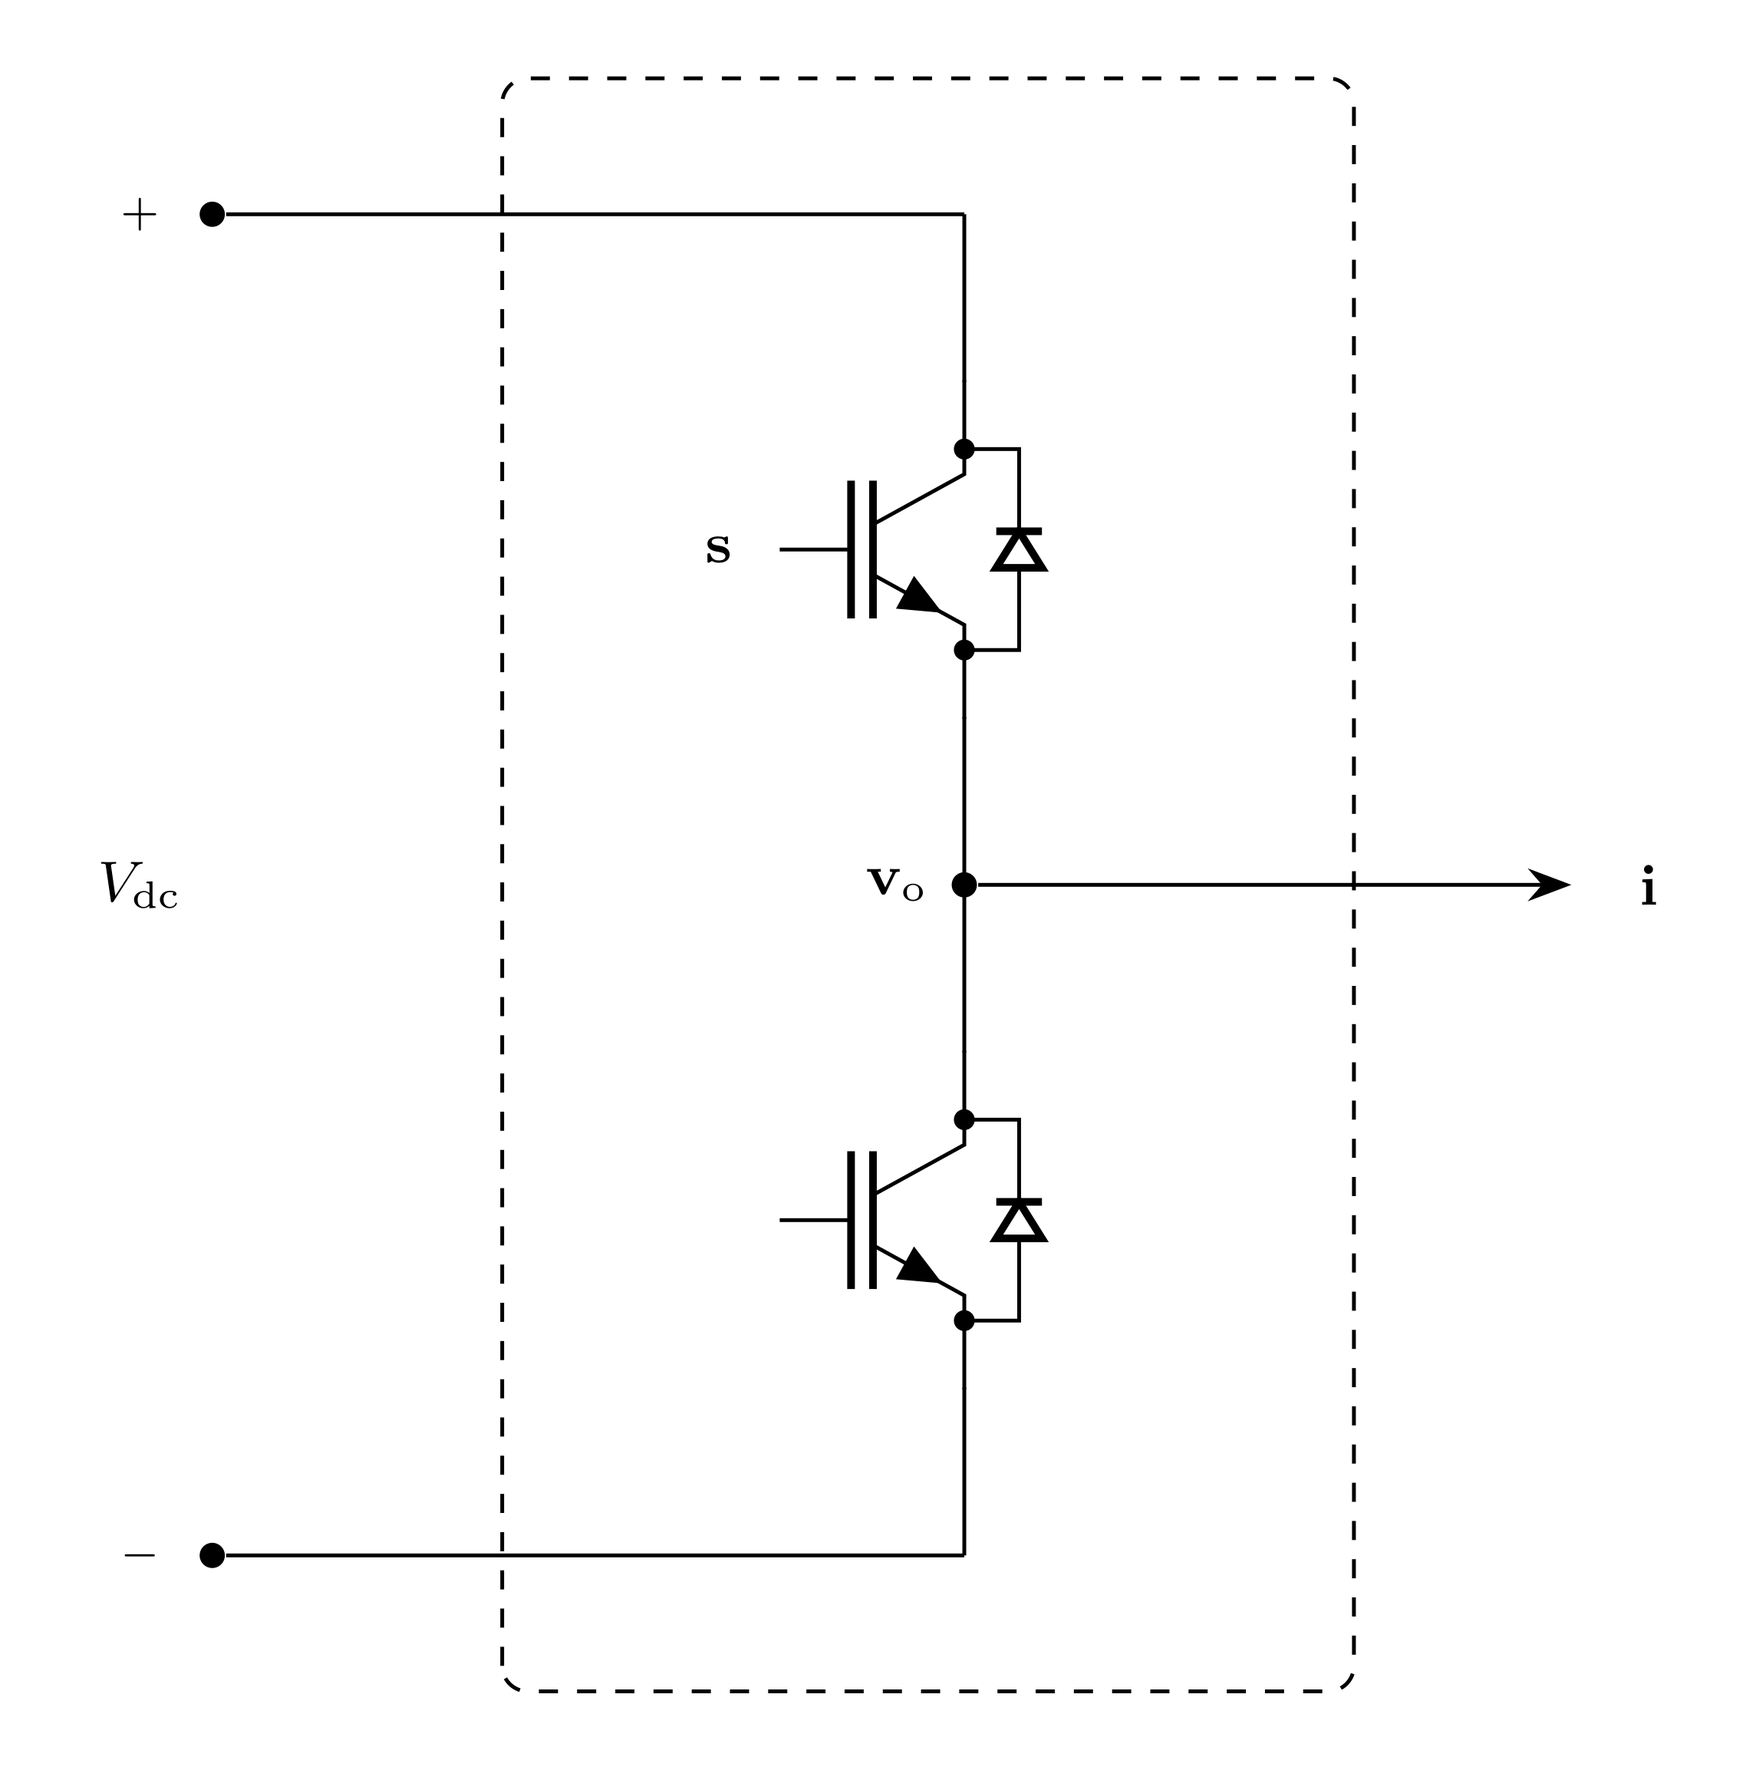
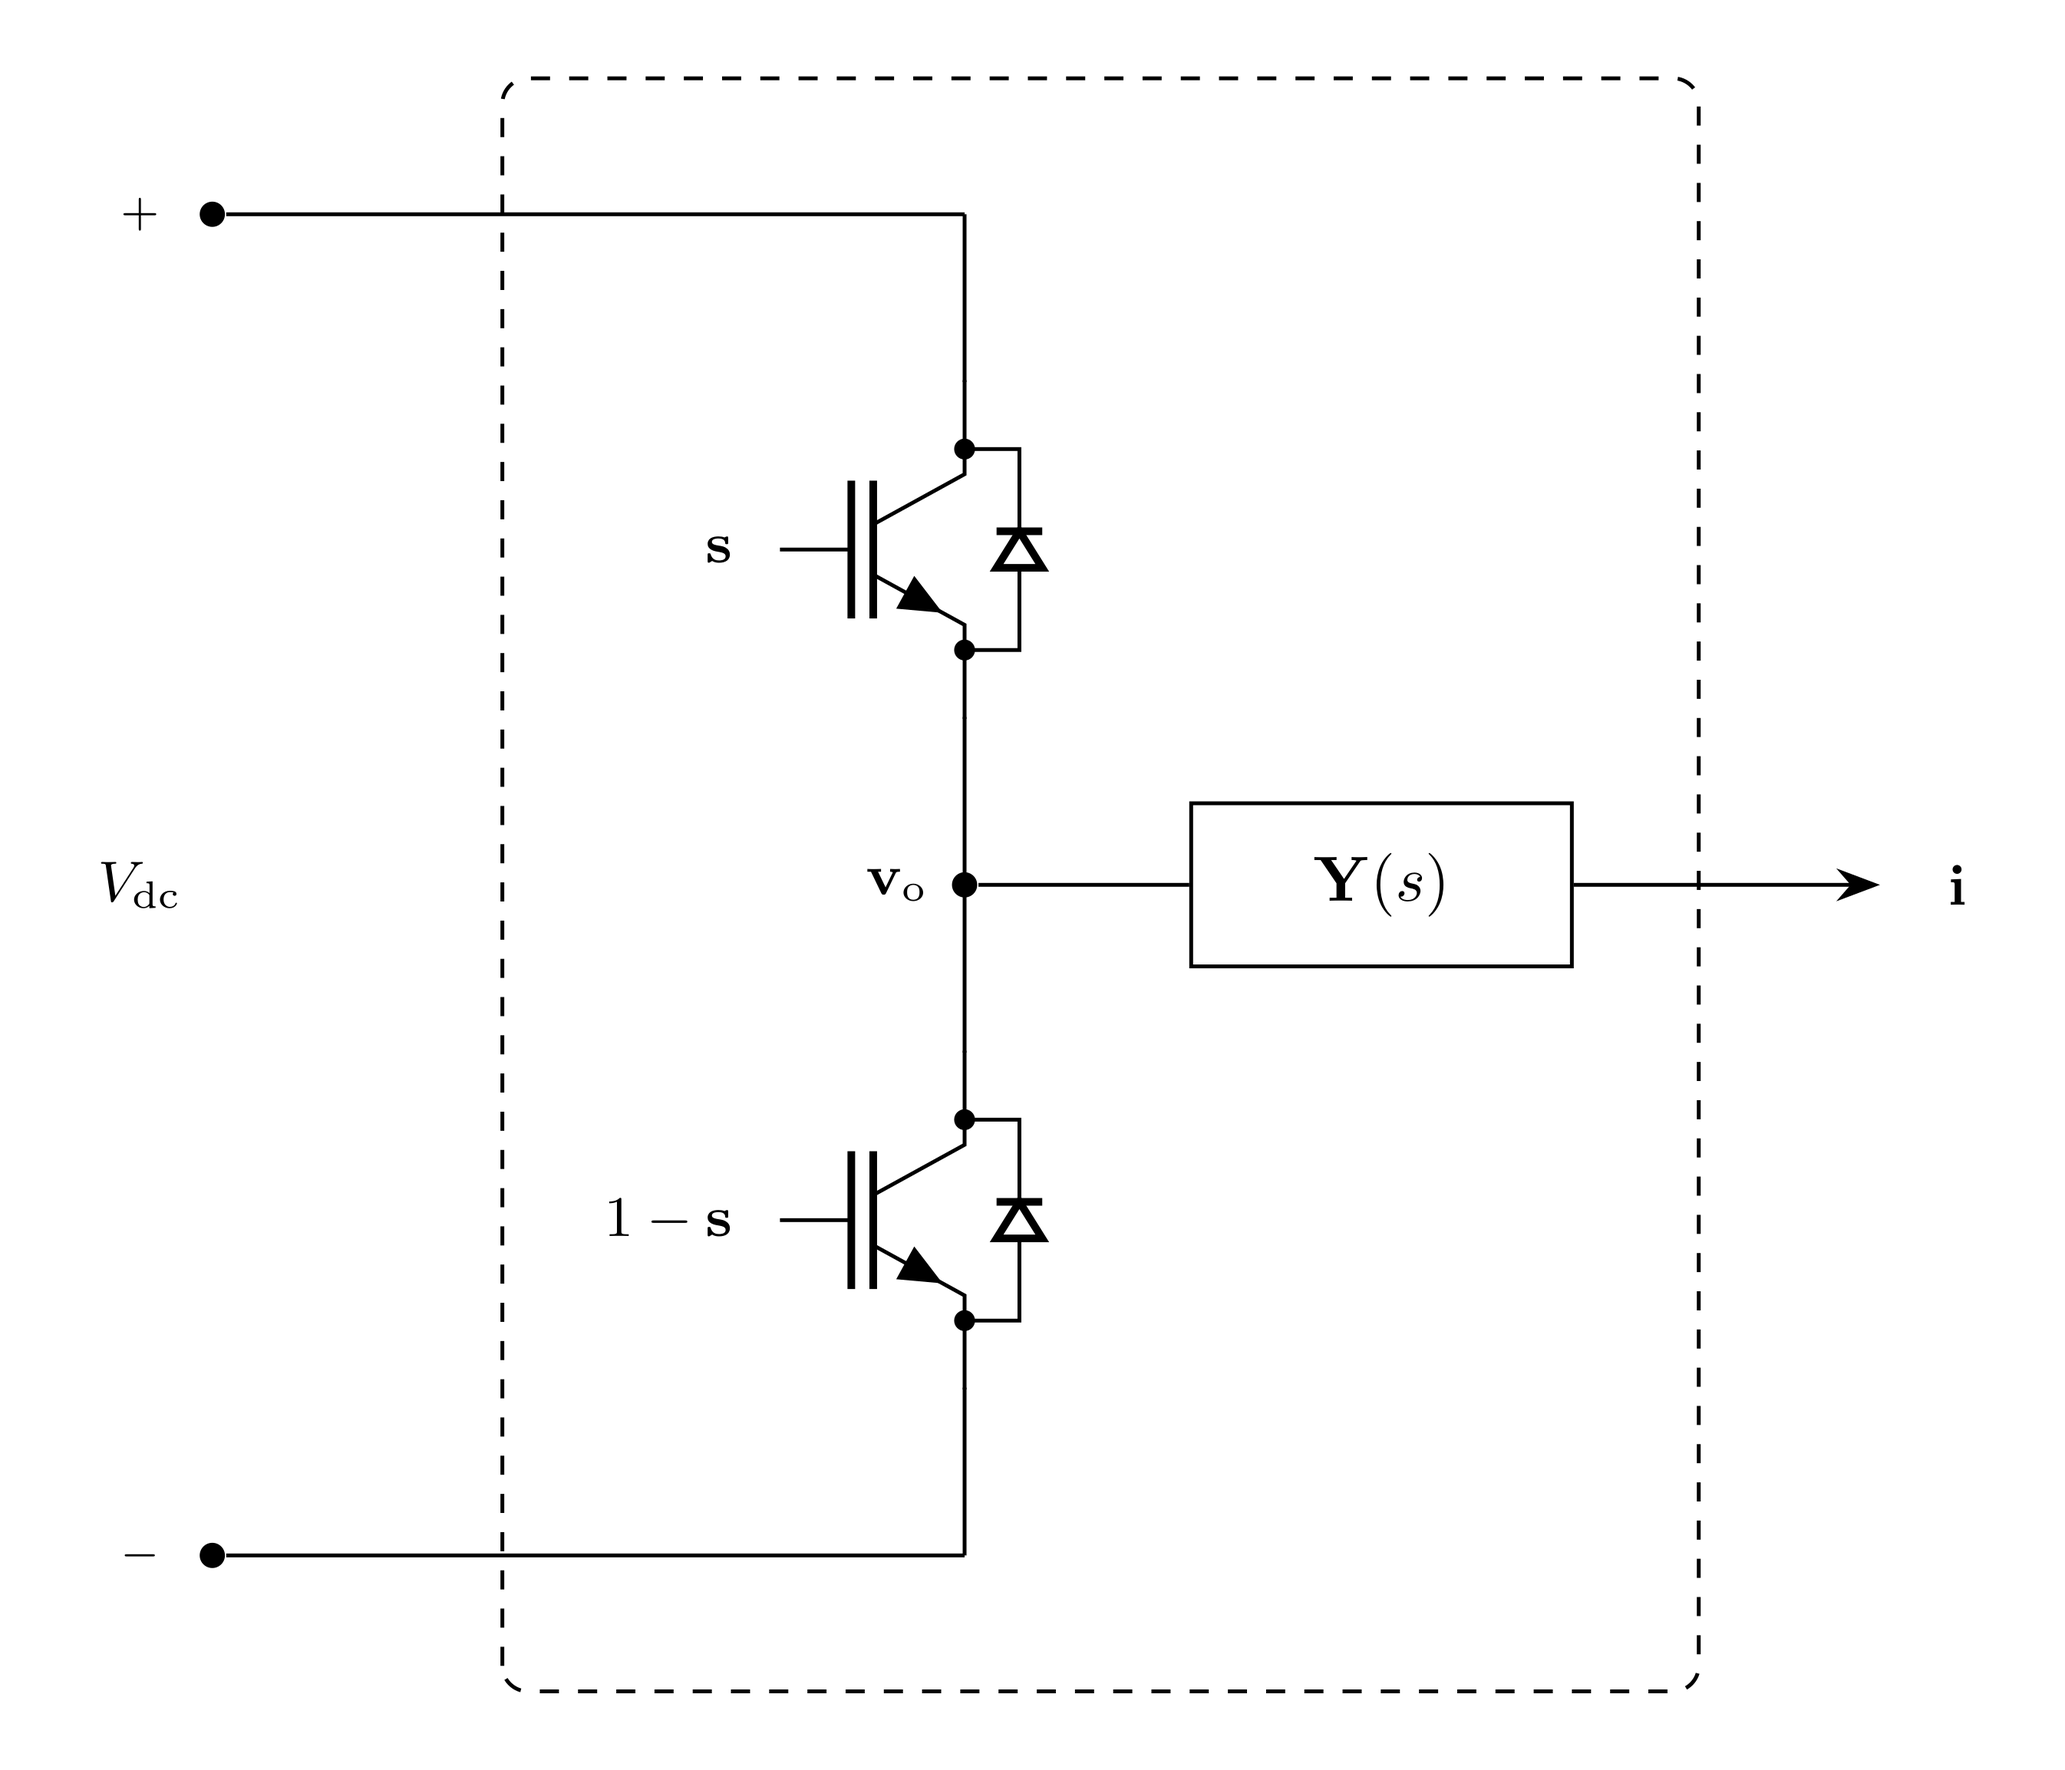
add terminal admittance block 3p

diff --git a/docs/Figures/EMT/Source/Inverter/diagram.tex b/docs/Figures/EMT/Source/Inverter/diagram.tex
@@ -27,14 +27,20 @@
 \draw[line] (S-.C) -- (0, 0);
 \draw[line] (S-.E) -- (0, -3.7);
 \node[sig, anchor=east] at ($(S+.G)+(-0.15,0)$) {$\mathbf{s}$};
+\node[sig, anchor=east] at ($(S-.G)+(-0.15,0)$) {$1-\mathbf{s}$};
 
 % ================= Phase terminal =================
 \node[signal, label={[sig]left:$\mathbf{v}_{\mathrm{o}}$}] (phase) at (0, 0) {};
-\draw[->, line] (phase) -- (3.35, 0);
-\node[sig, anchor=west] at (3.60, 0) {$\mathbf{i}$};
+
+% ================= Terminal admittance branch =================
+\node[block, minimum width=2.1cm, minimum height=0.9cm]
+    (Y) at (2.30, 0) {$\mathbf{Y}(s)$};
+\draw[line] (phase) -- (Y.west);
+\draw[->, line] (Y.east) -- (5.05, 0);
+\node[sig, anchor=west] at (5.30, 0) {$\mathbf{i}$};
 
 % ================= Model enclosure =================
-\draw[enclosure] (-2.55, -4.45) rectangle (2.15, 4.45);
+\draw[enclosure] (-2.55, -4.45) rectangle (4.05, 4.45);
 
 \end{tikzpicture}
 \end{document}
